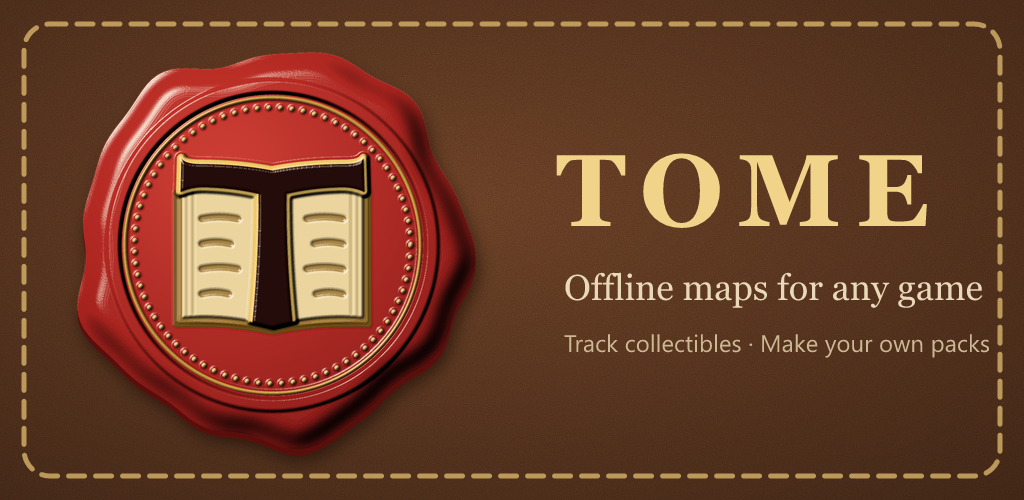
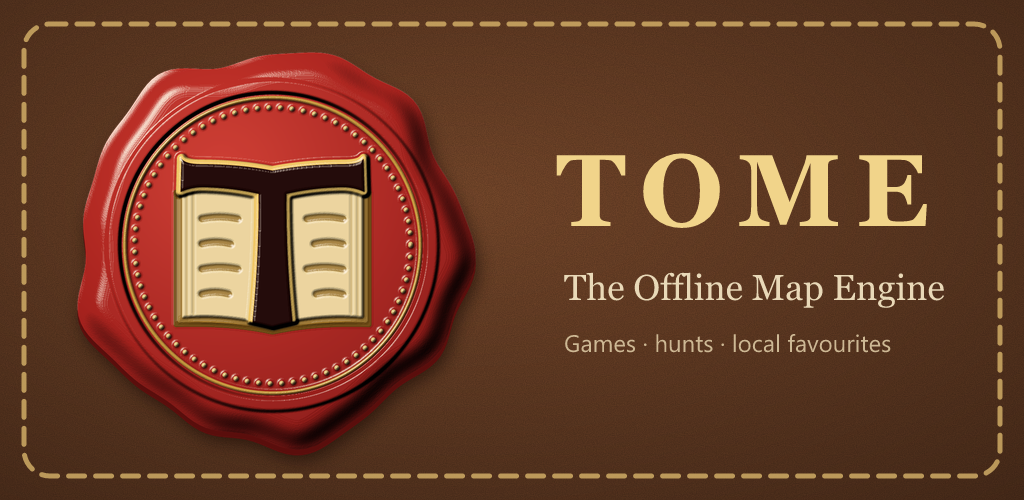
TOME: The Offline Map Engine
- About sheet, store banner, website, guide and README describe TOME as the Offline Map Engine:
  made for games, and for anything worth mapping and checking off (local favourites, hunts)

Changed region(s): [[0.5312, 0.54, 0.9688, 0.63], [0.5312, 0.66, 0.9688, 0.72]]

diff --git a/studio/public/guide.html b/studio/public/guide.html
@@ -94,14 +94,17 @@
     <article>
       <h1>Make a map pack</h1>
       <p class="lead">
-        TOME is an offline map app for any game. A <strong>pack</strong> is one game's maps plus the
-        things on them (benches, chests, keys…), which players can filter and check off.
-        TOME Studio is where you make one. Everything happens in your browser: nothing is uploaded.
+        TOME, the Offline Map Engine, is an interactive map app that works with no connection.
+        It's made for games, and for anything else worth mapping and checking off: the pizza places
+        locals swear by, a scavenger hunt across town, a trail. A <strong>pack</strong> is a set of
+        maps plus the things on them (benches, chests, clues, restaurants…), which people can filter
+        and check off. TOME Studio is where you make one. Everything happens in your browser:
+        nothing is uploaded.
       </p>
 
       <div class="grid">
-        <div class="card"><strong><span class="material-icons">map</span> Maps</strong>Big images of the game world.</div>
-        <div class="card"><strong><span class="material-icons">category</span> Marker types</strong>Kinds of things: "Bench", "Mask Shard".</div>
+        <div class="card"><strong><span class="material-icons">map</span> Maps</strong>Big images: a game world, a park, a city.</div>
+        <div class="card"><strong><span class="material-icons">category</span> Marker types</strong>Kinds of things: "Chest", "Clue", "Pizza place".</div>
         <div class="card"><strong><span class="material-icons">place</span> Markers</strong>Each thing, placed on a map.</div>
         <div class="card"><strong><span class="material-icons">crop_free</span> Regions</strong>Named areas, listed in the app's info sheet and search.</div>
       </div>
@@ -109,8 +112,8 @@
       <h2 id="start">Quick start: your first pack in 10 minutes</h2>
       <ol class="steps">
         <li><strong>Add a map.</strong> In the <span class="ui">Maps</span> tab, click
-          <span class="ui">Add map from image</span> and pick a picture of the game's map. Use the
-          biggest, cleanest one you have: players zoom right in.</li>
+          <span class="ui">Add map from image</span> and pick a picture of the map: a game's world map,
+          a park, a city. Use the biggest, cleanest one you have: people zoom right in.</li>
         <li><strong>Make marker types.</strong> In <span class="ui">Types</span>, add a group
           (e.g. "Collectibles") and a few types (e.g. "Chest"), each with a colour and icon.</li>
         <li><strong>Place markers.</strong> In <span class="ui">Markers</span>, click

diff --git a/studio/index.html b/studio/index.html
@@ -5,14 +5,14 @@
     <link rel="icon" type="image/png" href="/favicon.png" />
     <link rel="apple-touch-icon" href="/apple-touch-icon.png" />
     <meta name="viewport" content="width=device-width, initial-scale=1.0" />
-    <meta name="description" content="Make offline map packs for TOME: add a map image, place markers, export." />
+    <meta name="description" content="Make map packs for TOME, the Offline Map Engine: add a map image, place markers, export. For games, hunts and local favourites." />
     <title>TOME Studio</title>
     <link rel="stylesheet" href="https://fonts.googleapis.com/icon?family=Material+Icons" />
   </head>
   <body>
     <header>
       <strong>TOME Studio</strong>
-      <span class="muted">Make map packs for the TOME app. Everything stays in your browser.</span>
+      <span class="muted">Make map packs for TOME, the Offline Map Engine. Everything stays in your browser.</span>
       <a class="guide" href="/guide.html" target="_blank"><span class="material-icons">menu_book</span>Guide</a>
       <a class="support" href="https://buymeacoffee.com/rahulskann" target="_blank" rel="noopener"><span class="material-icons">local_cafe</span>Support</a>
       <a href="https://github.com/rahulskann/TOME/blob/main/docs/pack-format.md" target="_blank" rel="noopener">Pack format</a>

diff --git a/studio/src/main.ts b/studio/src/main.ts
@@ -815,9 +815,9 @@ function packTab() {
 function startPanel() {
   return h('div', { class: 'card start' },
     h('h2', {}, 'Start here'),
-    h('p', { class: 'help' }, 'Make an offline map pack for the TOME app. Pick how to begin:'),
+    h('p', { class: 'help' }, 'Make an offline map pack for TOME: for a game, a hunt, or any places worth checking off. Pick how to begin:'),
     h('button', { class: 'big', onclick: () => filePicker((f) => void addImage(f).then(() => update(() => (state.tab = 'types')))) },
-      icon('add_photo_alternate'), h('span', {}, h('strong', {}, 'From a map image'), h('small', {}, "One picture of the game's map"))),
+      icon('add_photo_alternate'), h('span', {}, h('strong', {}, 'From a map image'), h('small', {}, 'One picture of the whole map'))),
     h('button', { class: 'big', onclick: () => filesPicker((fs) => void newMapFromPieces(fs)) },
       icon('dashboard'), h('span', {}, h('strong', {}, 'From several images'), h('small', {}, 'e.g. one per region, lined up on one canvas'))),
     h('button', { class: 'big', onclick: () => zipPicker(openZip) },

diff --git a/app/lib/about.dart b/app/lib/about.dart
@@ -20,8 +20,11 @@ void showTomeAbout(BuildContext context) {
     applicationLegalese: 'Free and open source. Map packs are made by their authors.',
     children: [
       const SizedBox(height: 12),
-      const Text('Offline maps for any game. Add a pack from a GitHub link, then filter, '
-          'search and check things off, all without a connection.'),
+      const Text('The Offline Map Engine', style: TextStyle(fontWeight: FontWeight.w600)),
+      const SizedBox(height: 8),
+      const Text('Interactive maps that work with no connection. Made for games: find, filter and '
+          'check off everything. And for anything else worth mapping, like the pizza places locals '
+          'swear by or a scavenger hunt across town.'),
       const SizedBox(height: 12),
       ListTile(
         contentPadding: EdgeInsets.zero,

diff --git a/branding/make_icon_3d.py b/branding/make_icon_3d.py
@@ -169,8 +169,8 @@ HEAD = '<svg xmlns="http://www.w3.org/2000/svg" xmlns:xlink="http://www.w3.org/1
 
 FEATURE_TEXT = """
 <text x="556" y="226" font-family="Georgia, 'Times New Roman', serif" font-size="102" font-weight="700" letter-spacing="14" fill="#f1d48a">TOME</text>
-<text x="564" y="300" font-family="Georgia, 'Times New Roman', serif" font-size="36" fill="#e9d9b8">Offline maps for any game</text>
-<text x="564" y="352" font-family="Segoe UI, Arial, sans-serif" font-size="24" fill="#cdb894">Track collectibles · Make your own packs</text>"""
+<text x="564" y="300" font-family="Georgia, 'Times New Roman', serif" font-size="36" fill="#e9d9b8">The Offline Map Engine</text>
+<text x="564" y="352" font-family="Segoe UI, Arial, sans-serif" font-size="24" fill="#cdb894">Games · hunts · local favourites</text>"""
 
 
 def write_all(gilded=True, edge=T_EDGE, prefix='icon'):

diff --git a/branding/README.md b/branding/README.md
@@ -11,7 +11,6 @@ gold edge, and the page lines are soft, so the T still reads at launcher sizes.
 | `icon-foreground.svg`, `icon-background.svg` | Android adaptive-icon layers (the seal sits inside the 66% safe zone) |
 | `play-icon-512.png` | Google Play store icon |
 | `play-feature-1024x500.png` | Google Play feature graphic |
-| `versions/saved/` | The chosen version (with its generator), kept while trying changes |
 
 ## Changing it
 
@@ -24,6 +23,9 @@ helpers: leather, the wax outline), then rebuild everything that uses the icon:
 
 That rewrites the app's launcher icons (`app/android/app/src/main/res/mipmap-*`), the
 website's `favicon.png` and `apple-touch-icon.png`, and the store graphics here.
+
+Earlier versions live in git history: check out an older `make_icon_3d.py` and rebuild to get
+one back.
 
 The relief comes from SVG lighting filters on a height map, which work per pixel, so
 everything is rendered once at 1024 px and scaled down rather than rendered small.

diff --git a/README.md b/README.md
@@ -1,6 +1,8 @@
 # TOME
 
-**An offline-first interactive map engine for any game — video games, tabletop campaigns, homebrew worlds.**
+**The Offline Map Engine.** Interactive maps that work with no connection, built for games
+(video games, tabletop campaigns, homebrew worlds) and for anything else worth mapping and
+checking off: the pizza places locals swear by, a scavenger hunt across town, a trail or a campus.
 
 TOME is a native mobile app (iOS / iPadOS / Android) that works like an emulator for maps:
 the app is just the engine, and the content comes from **map packs** that anyone can
